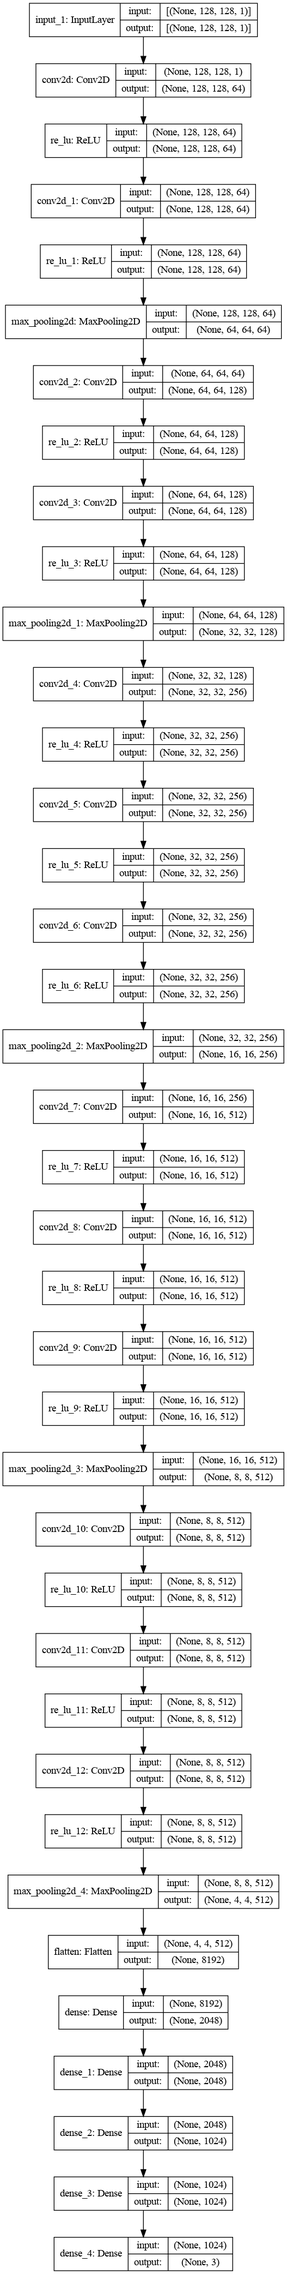
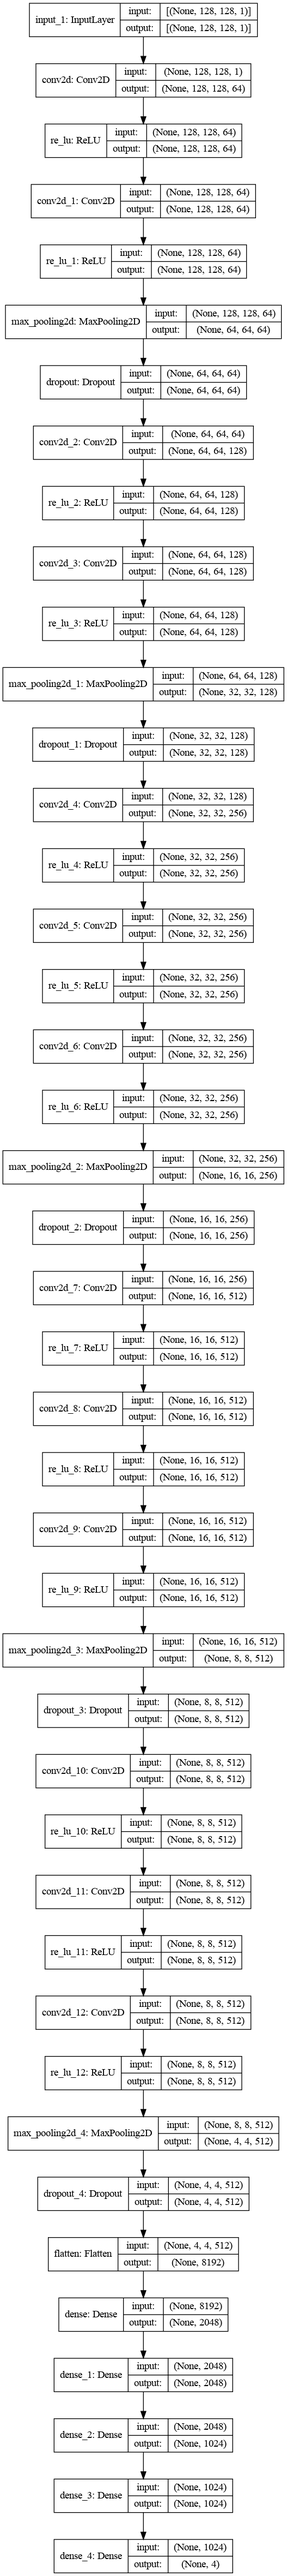
adjust model

Changed region(s): [[0.0304, 0.0, 1.0, 1.0], [0.0607, 0.1248, 0.0911, 0.156], [0.0, 0.1248, 0.0304, 0.156]]

diff --git a/ml/python_script/create_model.py b/ml/python_script/create_model.py
@@ -1,6 +1,6 @@
 import tensorflow as tf
 from tensorflow import keras
-from tensorflow.keras import layers, models, optimizers, losses, regularizers
+from tensorflow.keras import layers, models, optimizers, losses, regularizers, callbacks
 
 import os
 import sys
@@ -43,26 +43,26 @@ def classification_model(input_shape, output_size):
     x = conv_batchnorm_relu(inputs, 64, 3)
     x = conv_batchnorm_relu(x, 64, 3)
     x = layers.MaxPooling2D(2, padding="same")(x)
-    x = layers.Dropout(0.2)(X)
+    x = layers.Dropout(0.2)(x)
     x = conv_batchnorm_relu(x, 128, 3)
     x = conv_batchnorm_relu(x, 128, 3)
     x = layers.MaxPooling2D(2, padding="same")(x)
-    x = layers.Dropout(0.2)(X)
+    x = layers.Dropout(0.2)(x)
     x = conv_batchnorm_relu(x, 256, 3)
     x = conv_batchnorm_relu(x, 256, 3)
     x = conv_batchnorm_relu(x, 256, 3)
     x = layers.MaxPooling2D(2, padding="same")(x)
-    x = layers.Dropout(0.2)(X)
+    x = layers.Dropout(0.2)(x)
     x = conv_batchnorm_relu(x, 512, 3)
     x = conv_batchnorm_relu(x, 512, 3)
     x = conv_batchnorm_relu(x, 512, 3)
     x = layers.MaxPooling2D(2, padding="same")(x)
-    x = layers.Dropout(0.2)(X)
+    x = layers.Dropout(0.2)(x)
     x = conv_batchnorm_relu(x, 512, 3)
     x = conv_batchnorm_relu(x, 512, 3)
     x = conv_batchnorm_relu(x, 512, 3)
     x = layers.MaxPooling2D(2, padding="same")(x)
-    x = layers.Dropout(0.2)(X)
+    x = layers.Dropout(0.2)(x)
 
     x = layers.Flatten()(x)
     x = layers.Dense(2048)(x)
@@ -213,12 +213,19 @@ def make_certification_model(images, labels):
         loss=losses.SparseCategoricalCrossentropy(),
         metrics=["accuracy"]
     )
+    early_stopping = callbacks.EarlyStopping(
+        monitor="val_loss",
+        min_delta=1.0e-8,
+        patience=5,
+        mode="min"
+    )
 
     model.fit(
         {"image1": train_images1, "image2": train_images2},
         train_labels,
-        epochs=10,
-        validation_data=({"image1": validation_images1, "image2": validation_images2}, validation_labels)
+        epochs=50,
+        validation_data=({"image1": validation_images1, "image2": validation_images2}, validation_labels),
+        callbacks=[early_stopping]
     )
     model.save(RAILS_ROOT + "/ml/hisseki_certification.tf")
 
